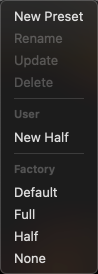
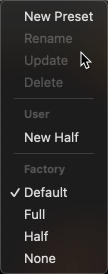
Use toggles for preset menu items

diff --git a/Sources/AUv3Host/HostFeature.swift b/Sources/AUv3Host/HostFeature.swift
@@ -224,12 +224,14 @@ public struct HostView: View {
 public struct HostScene: Scene {
   @Bindable private var store: StoreOf<HostFeature>
   private let config: HostConfig
-  
+  private let checkmark = Image(systemName: "checkmark")
+  private let clearmark = Image.filledRect(size: .init(width: 20, height: 20))
+
   public init(store: StoreOf<HostFeature>, config: HostConfig) {
     self.store = store
     self.config = config
   }
-  
+
   public var body: some Scene {
     WindowGroup {
       HostView(store: store)
@@ -255,20 +257,19 @@ public struct HostScene: Scene {
         CommandMenu("Presets") {
           Button("New Preset") { store.send(.newButtonTapped) }
             .disabled(store.showNotice)
-          Button("Rename") { store.send(.renameButtonTapped) }
-            .disabled(store.showNotice || store.presets.currentPresetNumber >= 0)
-          Button("Update") { store.send(.updateButtonTapped) }
-            .disabled(store.showNotice || store.presets.currentPresetNumber >= 0)
-          Button("Delete") { store.send(.deleteButtonTapped) }
-            .disabled(store.showNotice || store.presets.currentPresetNumber >= 0)
+          commandMenuItem(name: "Rename", action: .renameButtonTapped)
+          commandMenuItem(name: "Update", action: .updateButtonTapped)
+          commandMenuItem(name: "Delete", action: .deleteButtonTapped)
+
           if !store.presets.userPresets.isEmpty {
             Section("User") {
-              ForEach(store.presets.userPresetsOrderedByName, id: \.number) { presetButton(preset: $0) }
+              ForEach(store.presets.userPresetsOrderedByName, id: \.number) { presetMenuItem(preset: $0) }
             }
           }
+
           if !store.presets.factoryPresets.isEmpty {
             Section("Factory") {
-              ForEach(store.presets.factoryPresetsOrderedByName, id: \.number) { presetButton(preset: $0) }
+              ForEach(store.presets.factoryPresetsOrderedByName, id: \.number) { presetMenuItem(preset: $0) }
             }
           }
         }
@@ -276,12 +277,18 @@ public struct HostScene: Scene {
     }
   }
 
-  private func presetButton(preset: AUAudioUnitPreset) -> some View {
-    Button {
-      store.send(.presetButtonTapped(preset.number))
-    } label: {
+  private func commandMenuItem(name: String, action: HostFeature.Action) -> some View {
+    Button(name) { store.send(action) }
+      .disabled(store.showNotice || store.presets.currentPresetNumber >= 0)
+  }
+
+  private func presetMenuItem(preset: AUAudioUnitPreset) -> some View {
+    Toggle(isOn: Binding(
+      get: { preset.number == store.presets.currentPresetNumber },
+      set: { _ in store.send(.presetButtonTapped(preset.number)) }
+    ), label: {
       Text(preset.name)
-    }
+    })
     .disabled(store.showNotice)
   }
 }

diff --git a/README.md b/README.md
@@ -49,7 +49,7 @@ For comparison, below is the view of the same app running on macOS:
 
 <img src="media/AUv3Demo_macOS.png" width="400">
 
-The macOS app also offers menus:
+The macOS app also has custom menus in the menubar, dynamically created as presets change:
 
 <img src="media/Menu_macOS.png">
 
